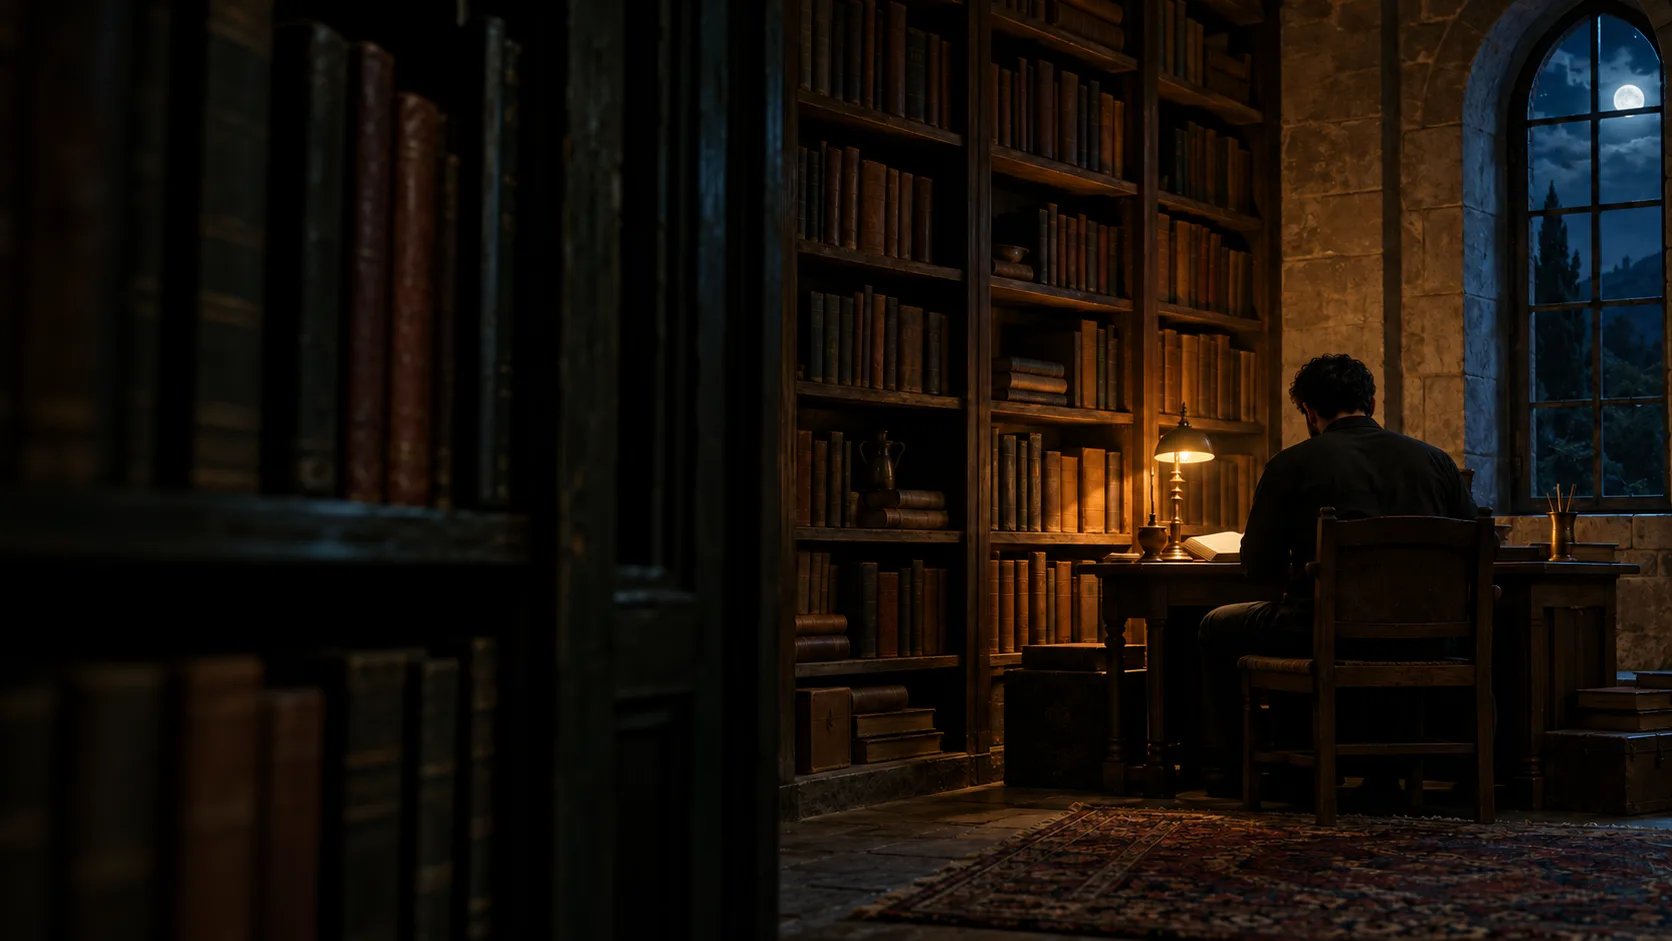
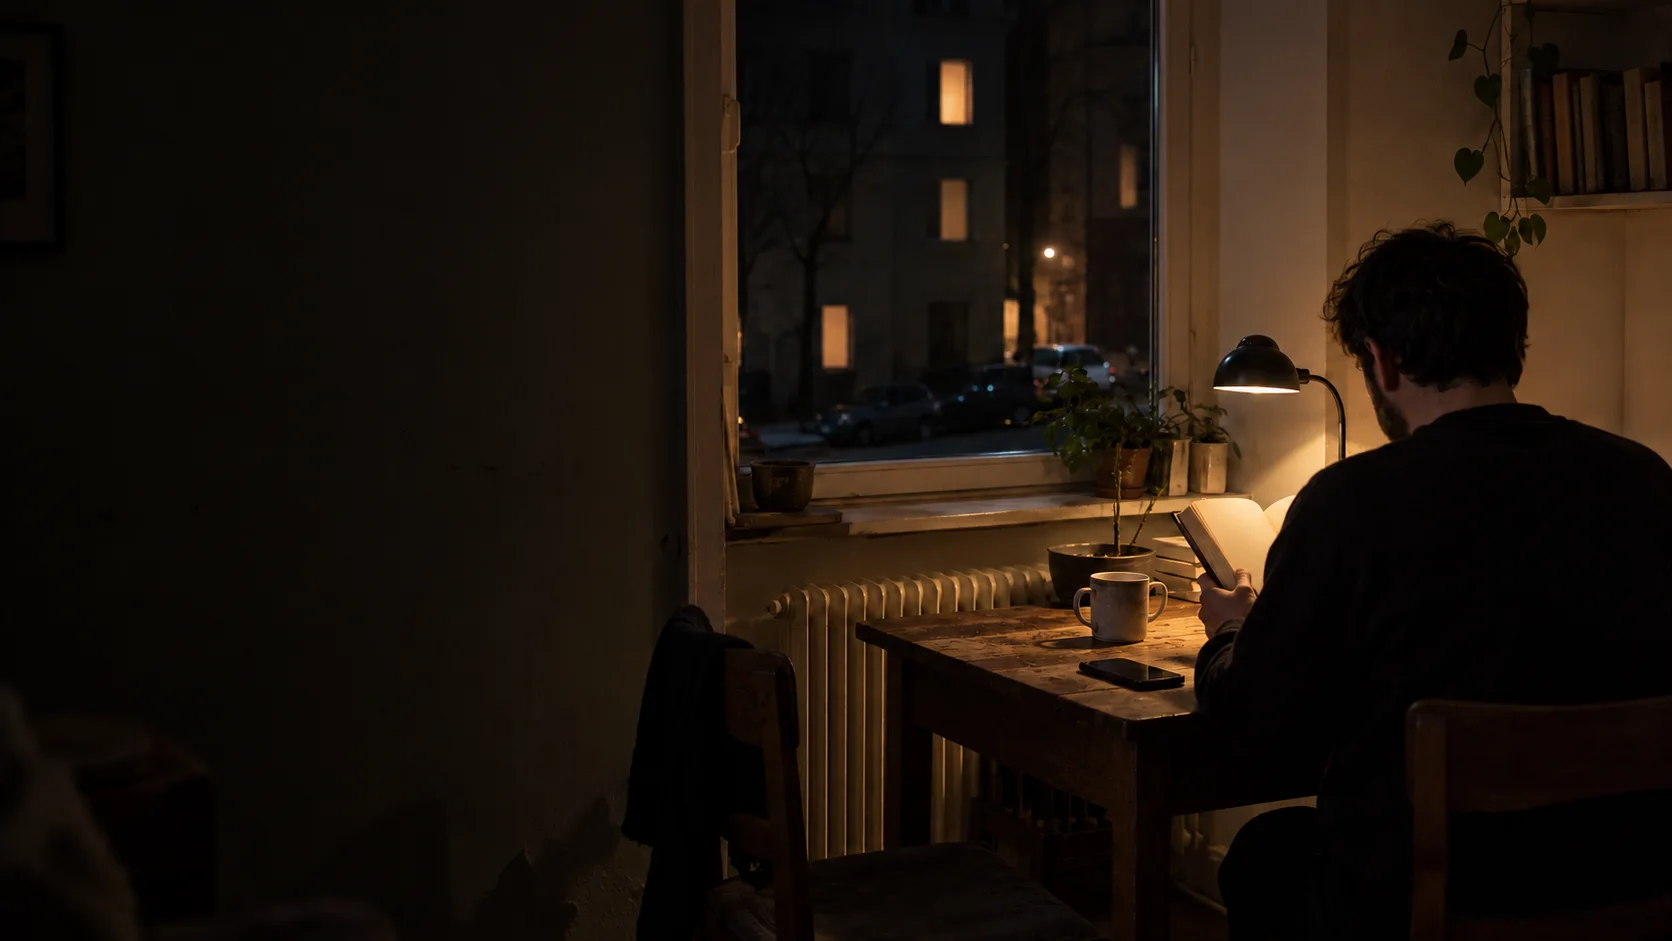
feat: use a realistic apartment scene on the first screen
The owner rejected the library scene as looking AI generated, so the
hero now shows an ordinary room at night.

diff --git a/src/styles/story.css b/src/styles/story.css
@@ -168,13 +168,13 @@ audio { display: block; width: 100%; max-width: var(--space-measure); height: 48
 /* Promo first screen, in the class of qamar360.com. */
 .draft { text-decoration: none; }
 .hero { position: relative; isolation: isolate; min-height: 100svh; overflow: hidden; display: flex; flex-direction: column; background: var(--color-surface); }
-.hero-scene { position: absolute; inset: 0; z-index: -1; background-color: var(--color-surface); background-image: linear-gradient(to bottom, color-mix(in oklch, var(--color-surface) 35%, transparent), transparent 18%, transparent 30%, var(--color-surface) 56%), url('/hero-tall.webp'); background-size: 100% 100%, 100% auto; background-position: top, center top; background-repeat: no-repeat; }
+.hero-scene { position: absolute; inset: 0; z-index: -1; background-color: var(--color-surface); background-image: linear-gradient(to bottom, color-mix(in oklch, var(--color-surface) 35%, transparent), transparent 18%, transparent 28%, var(--color-surface) 50%), url('/hero-tall.webp'); background-size: 100% 100%, 100% auto; background-position: top, center top; background-repeat: no-repeat; }
 .topbar { display: flex; align-items: center; justify-content: space-between; width: 100%; max-width: 1440px; margin-inline: auto; padding: 20px var(--space-gutter); }
 .brand { display: inline-flex; align-items: center; gap: 10px; color: var(--color-on-surface); font-size: 1.25rem; font-weight: 500; text-decoration: none; }
 .brand svg { color: var(--color-primary); }
 .get { display: inline-flex; align-items: center; min-height: 44px; padding-inline: 18px; border-radius: 999px; background: var(--color-primary); color: var(--color-surface); font-weight: 500; text-decoration: none; }
 .hero-body { flex: 1; display: grid; gap: 40px; width: 100%; max-width: 1440px; margin-inline: auto; padding: 0 var(--space-gutter); }
-.hero-copy { margin-top: 34svh; }
+.hero-copy { margin-top: 44svh; }
 .hero h1 { font-size: clamp(2.75rem, 11vw, 5.5rem); font-weight: 500; line-height: 1.02; letter-spacing: -0.015em; color: var(--color-on-surface); }
 .lede { max-width: 30rem; margin-top: 16px; font-size: clamp(1.125rem, 2vw, 1.375rem); line-height: 1.4; color: var(--color-on-surface); }
 .stores { display: flex; flex-wrap: wrap; gap: 12px; align-items: center; }
@@ -188,7 +188,7 @@ audio { display: block; width: 100%; max-width: var(--space-measure); height: 48
 .phone.back { position: absolute; top: 7%; left: -34%; transform: rotate(-6deg); }
 .capture img { border: 6px solid var(--color-surface-raised); outline: 1px solid var(--color-outline); border-radius: 32px; }
 @media (min-width: 56.25rem) {
-  .hero-scene { background-image: linear-gradient(to right, var(--color-surface), color-mix(in oklch, var(--color-surface) 55%, transparent) 38%, transparent 62%), linear-gradient(to bottom, transparent 78%, var(--color-surface)), url('/hero-wide.webp'); background-size: 100% 100%, 100% 100%, cover; background-position: top, top, right center; }
+  .hero-scene { background-image: linear-gradient(to right, var(--color-surface), color-mix(in oklch, var(--color-surface) 40%, transparent) 36%, transparent 55%), linear-gradient(to bottom, transparent 78%, var(--color-surface)), url('/hero-wide.webp'); background-size: 100% 100%, 100% 100%, cover; background-position: top, top, right center; }
   .hero-body { grid-template-columns: minmax(0, 1.15fr) minmax(0, 0.85fr) minmax(0, 0.8fr); align-items: center; }
   .hero-copy { margin-top: -5svh; }
   .lede { max-width: 25rem; }

diff --git a/docs/imagery/hero/brief.md b/docs/imagery/hero/brief.md
@@ -21,3 +21,13 @@
 ## Round 2 critique
 
 Round 1 worked as a mood. To fix: the moon is too bright and stock-like, so remove the visible moon and keep cold blue light on the window. The gothic arch and European library read generic: use a plain arched stone window with simple dark wooden lattice, thick plaster walls, and low shelves of old leather-bound books, without any costume or decoration. Keep the man on the right third with the left half very dark and calm for text. Add a modern phone lying face up on the desk beside the open book, its screen softly lit but showing no readable content, so it says old books and an app, tonight. Reject the cross-like shape in tall-2: no crosses or cross-shaped window bars or handles anywhere.
+
+## Round 2, replaced: make it look real
+
+The owner: "the environment doesnt look realistic though, typically ai gneerated". The stone library is a fantasy set, and that is the root problem, not just the finish. Drop it and the Round 2 critique above.
+
+**New scene:** an ordinary real apartment at night, in the same world as qamar360's images. A man, seen from behind, at a plain kitchen or small wooden table by a window, reading one old hardcover book, with a phone lying on the table. A plain painted wall, an ordinary radiator, a mug, a few mismatched books on a simple shelf, a real table lamp. Through the window, a dim northern European street with a lit window across the way.
+
+**How it must look:** a real photograph taken handheld on a 35 mm camera at high ISO, available light only. Visible grain and some noise in the shadows, shadows that go properly black, slightly soft focus away from the subject, imperfect framing, muted natural colour, ordinary mess and wear.
+
+**Reject on sight:** HDR look, even sharpness everywhere, glossy or waxy surfaces, glowing lamps with halos, teal-and-orange grading, perfectly arranged objects, rows of identical books, symmetrical composition, anything grand or cinematic-fantasy. Everything in the earlier rejection list still applies.
